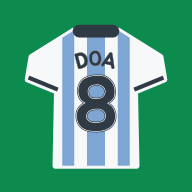
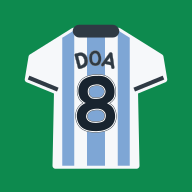
업데이트 2026-09-28

diff --git a/index.html b/index.html
@@ -191,7 +191,7 @@ svg{pointer-events:none}
 header .title{font-size:var(--fs-2xl);line-height:1.25;font-weight:400;margin:0;
   text-wrap:balance;color:var(--on-bg)}
 header .title em{font-style:normal;color:var(--pulse)}
-/* 제목 앞의 8번 유니폼 — 몸판은 본문색, 등번호는 배경색으로 파냈다 */
+/* 제목 앞의 8번 유니폼 — 홈 화면 아이콘과 같은 줄무늬 유니폼 */
 header .mark{
   display:inline-block;vertical-align:-.38em;
   width:1.62em;height:1.62em;margin-right:6px;
@@ -797,7 +797,7 @@ header .title,.today-date,.cal-title,.board .v,.keep h2,.install h2,
 
 <div class="wrap">
   <header>
-    <h1 class="title"><span class="mark" aria-hidden="true"><svg viewBox="0 0 24 24"><path d="M9.3 2.2L4 4.6L1.6 10L5.5 11.6L5.5 21.6L18.5 21.6L18.5 11.6L22.4 10L20 4.6L14.7 2.2L12 4.9Z" fill="currentColor"/><path d="M5.5 11.6L5.5 21.6M18.5 11.6L18.5 21.6" fill="none" stroke="var(--bg0)" stroke-width="1.3"/><path d="M9.3 2.2L4 4.6L1.6 10L5.5 11.6L5.5 21.6L18.5 21.6L18.5 11.6L22.4 10L20 4.6L14.7 2.2L12 4.9Z" fill="none" stroke="var(--bg0)" stroke-width="1.6" stroke-linejoin="round"/><path d="M9.3 2.2L14.7 2.2L12 4.9Z" fill="var(--bg0)" stroke="var(--bg0)" stroke-width="1.3" stroke-linejoin="round"/><text x="12" y="17.2" text-anchor="middle" font-family="Helvetica,Arial,sans-serif" font-weight="bold" font-size="11.5" fill="var(--bg0)">8</text></svg></span>오늘도 도아 <em>킥<button class="kick" id="kick" aria-label="공 차기"><svg viewBox="0 0 24 24" aria-hidden="true"><defs><clipPath id="kb"><circle cx="12" cy="12" r="9"/></clipPath></defs><circle cx="12" cy="12" r="9" fill="var(--bg0)" stroke="currentColor" stroke-width="1.6"/><g clip-path="url(#kb)" fill="currentColor"><path d="M12 8.1 L15.71 10.79 L14.29 15.16 L9.71 15.16 L8.29 10.79 Z"/><path d="M15.41 7.31 L14.11 3.29 L17.53 0.8 L20.95 3.29 L19.65 7.31 Z"/><path d="M17.52 13.79 L20.94 11.3 L24.36 13.79 L23.06 17.81 L18.82 17.81 Z"/><path d="M12 17.8 L15.42 20.29 L14.12 24.31 L9.88 24.31 L8.58 20.29 Z"/><path d="M6.48 13.79 L5.18 17.81 L0.94 17.81 L-0.36 13.79 L3.06 11.3 Z"/><path d="M8.59 7.31 L4.35 7.31 L3.05 3.29 L6.47 0.8 L9.89 3.29 Z"/></g></svg></button></em></h1>
+    <h1 class="title"><span class="mark" aria-hidden="true"><svg viewBox="0 0 24 24" aria-hidden="true"><defs><clipPath id="mk"><path d="M9.19 3.84 L14.81 3.84 L20.06 7.12 L20.53 9.94 L16.88 11.44 L17.06 20.72 L6.94 20.72 L7.12 11.44 L3.47 9.94 L3.94 7.12 Z"/></clipPath></defs><path d="M9.19 3.84 L14.81 3.84 L20.06 7.12 L20.53 9.94 L16.88 11.44 L17.06 20.72 L6.94 20.72 L7.12 11.44 L3.47 9.94 L3.94 7.12 Z" fill="#ffffff" stroke="#2f3a44" stroke-width="1" stroke-linejoin="round" stroke-linecap="round"/><g clip-path="url(#mk)" fill="#7ea6d5"><rect x="7.78" y="2.81" width="1.5" height="18.75"/><rect x="10.88" y="2.81" width="2.25" height="18.75"/><rect x="14.72" y="2.81" width="1.5" height="18.75"/></g><g clip-path="url(#mk)" fill="none" stroke="#2f3a44" stroke-width="1" stroke-linecap="butt"><path d="M3.47 9.94 L7.12 11.44"/><path d="M20.53 9.94 L16.88 11.44"/></g><g fill="#2f3a44"><rect x="9.09" y="3.09" width="5.81" height="1.59" rx="0.8"/></g><g fill="#ffffff" stroke="#ffffff" stroke-width="1.1" stroke-linejoin="round"><g transform="translate(12,15.9) scale(0.01300,-0.01300) translate(-290.5,0)"><path d="M293 1Q263 1 231.5 4.0Q200 7 170.5 16.5Q141 26 115.5 43.0Q90 60 73 87Q54 116 46.5 149.5Q39 183 41 218Q46 272 77.5 310.0Q109 348 157 368Q153 368 144.5 373.0Q136 378 127.0 385.0Q118 392 110.5 398.5Q103 405 100 407Q88 420 80.5 437.0Q73 454 68 471Q55 516 65.0 565.5Q75 615 106 652Q119 668 139.0 680.5Q159 693 182.0 701.5Q205 710 228.5 715.0Q252 720 271 720Q297 720 322.0 721.0Q347 722 372 718Q403 713 429.5 698.0Q456 683 476 661Q516 617 527.5 562.5Q539 508 524 451Q519 435 509.0 421.5Q499 408 486 396Q483 394 476.0 389.0Q469 384 460.5 378.5Q452 373 444.0 369.5Q436 366 432 367Q456 352 478.0 337.5Q500 323 514 297Q528 271 534.5 242.0Q541 213 539.5 184.0Q538 155 528.0 127.5Q518 100 499 78Q480 56 455.5 41.5Q431 27 404.0 18.0Q377 9 348.5 5.0Q320 1 293 1ZM295 293Q273 292 250.5 287.0Q228 282 209.5 271.5Q191 261 178.0 243.5Q165 226 162 200Q160 180 167.5 164.5Q175 149 187.5 137.5Q200 126 217.0 119.5Q234 113 251 111Q291 105 328 112Q342 115 354.5 117.5Q367 120 377.5 125.0Q388 130 396.5 138.5Q405 147 411 162Q420 183 418.5 209.5Q417 236 402 253Q380 279 353.5 287.0Q327 295 295 293ZM296 610Q273 608 252.0 603.0Q231 598 215.0 587.0Q199 576 190.5 558.0Q182 540 183 513Q184 494 189.0 477.5Q194 461 208 447Q225 427 249.0 423.5Q273 420 297 421Q334 421 361.5 432.0Q389 443 406 479Q419 508 413.0 533.0Q407 558 390.0 575.5Q373 593 347.5 602.5Q322 612 296 610Z"/></g></g><g fill="#2f3a44"><g transform="translate(12,15.9) scale(0.01300,-0.01300) translate(-290.5,0)"><path d="M293 1Q263 1 231.5 4.0Q200 7 170.5 16.5Q141 26 115.5 43.0Q90 60 73 87Q54 116 46.5 149.5Q39 183 41 218Q46 272 77.5 310.0Q109 348 157 368Q153 368 144.5 373.0Q136 378 127.0 385.0Q118 392 110.5 398.5Q103 405 100 407Q88 420 80.5 437.0Q73 454 68 471Q55 516 65.0 565.5Q75 615 106 652Q119 668 139.0 680.5Q159 693 182.0 701.5Q205 710 228.5 715.0Q252 720 271 720Q297 720 322.0 721.0Q347 722 372 718Q403 713 429.5 698.0Q456 683 476 661Q516 617 527.5 562.5Q539 508 524 451Q519 435 509.0 421.5Q499 408 486 396Q483 394 476.0 389.0Q469 384 460.5 378.5Q452 373 444.0 369.5Q436 366 432 367Q456 352 478.0 337.5Q500 323 514 297Q528 271 534.5 242.0Q541 213 539.5 184.0Q538 155 528.0 127.5Q518 100 499 78Q480 56 455.5 41.5Q431 27 404.0 18.0Q377 9 348.5 5.0Q320 1 293 1ZM295 293Q273 292 250.5 287.0Q228 282 209.5 271.5Q191 261 178.0 243.5Q165 226 162 200Q160 180 167.5 164.5Q175 149 187.5 137.5Q200 126 217.0 119.5Q234 113 251 111Q291 105 328 112Q342 115 354.5 117.5Q367 120 377.5 125.0Q388 130 396.5 138.5Q405 147 411 162Q420 183 418.5 209.5Q417 236 402 253Q380 279 353.5 287.0Q327 295 295 293ZM296 610Q273 608 252.0 603.0Q231 598 215.0 587.0Q199 576 190.5 558.0Q182 540 183 513Q184 494 189.0 477.5Q194 461 208 447Q225 427 249.0 423.5Q273 420 297 421Q334 421 361.5 432.0Q389 443 406 479Q419 508 413.0 533.0Q407 558 390.0 575.5Q373 593 347.5 602.5Q322 612 296 610Z"/></g></g></svg></span>오늘도 도아 <em>킥<button class="kick" id="kick" aria-label="공 차기"><svg viewBox="0 0 24 24" aria-hidden="true"><defs><clipPath id="kb"><circle cx="12" cy="12" r="9"/></clipPath></defs><circle cx="12" cy="12" r="9" fill="var(--bg0)" stroke="currentColor" stroke-width="1.6"/><g clip-path="url(#kb)" fill="currentColor"><path d="M12 8.1 L15.71 10.79 L14.29 15.16 L9.71 15.16 L8.29 10.79 Z"/><path d="M15.41 7.31 L14.11 3.29 L17.53 0.8 L20.95 3.29 L19.65 7.31 Z"/><path d="M17.52 13.79 L20.94 11.3 L24.36 13.79 L23.06 17.81 L18.82 17.81 Z"/><path d="M12 17.8 L15.42 20.29 L14.12 24.31 L9.88 24.31 L8.58 20.29 Z"/><path d="M6.48 13.79 L5.18 17.81 L0.94 17.81 L-0.36 13.79 L3.06 11.3 Z"/><path d="M8.59 7.31 L4.35 7.31 L3.05 3.29 L6.47 0.8 L9.89 3.29 Z"/></g></svg></button></em></h1>
     <button class="gear" id="gear" aria-label="설정" aria-expanded="false"></button>
   </header>
 
@@ -832,7 +832,7 @@ header .title,.today-date,.cal-title,.board .v,.keep h2,.install h2,
   <footer>
     달력에서 날짜를 누르면 그날 훈련을 보고 고칠 수 있어요.<br>
     기록은 이 기기에 저장돼요. 가끔 백업 파일로 내보내 두세요.<br>
-    <span class="ver">v2026-09-28b</span>
+    <span class="ver">v2026-09-28c</span>
   </footer>
 </div>
 

diff --git a/sw.js b/sw.js
@@ -4,7 +4,7 @@
    훈련 기록 자체는 여기 캐시가 아니라 localStorage 에 있으므로
    캐시를 비워도 데이터는 사라지지 않는다. */
 
-var VERSION = "doakick-2026-09-28b";
+var VERSION = "doakick-2026-09-28c";
 var PREFIX = "doakick-";
 var SHELL = PREFIX + "shell-" + VERSION;
 var FONTS = PREFIX + "fonts-" + VERSION;
